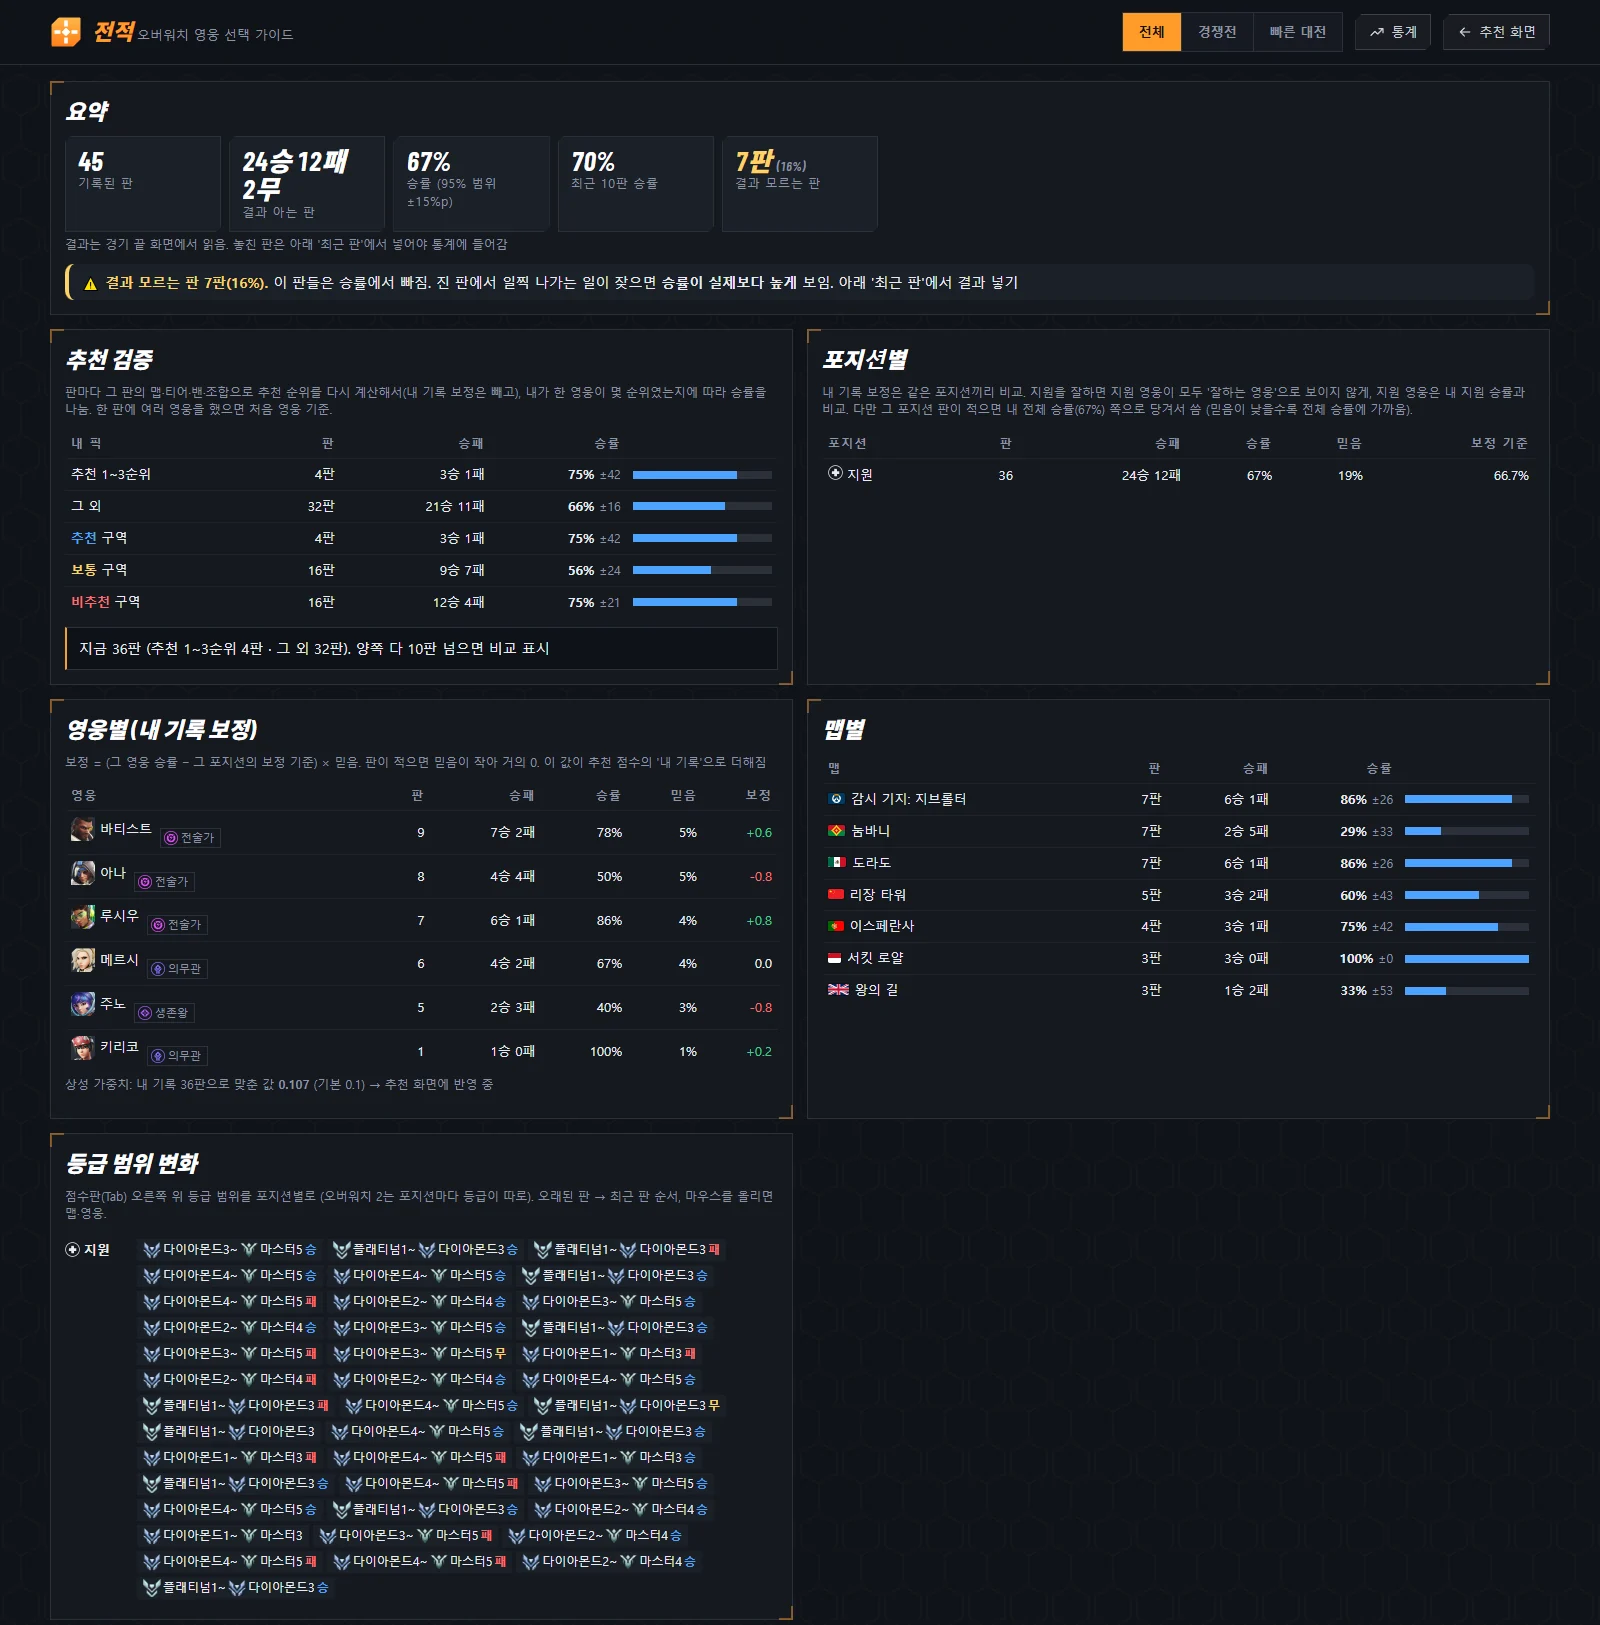
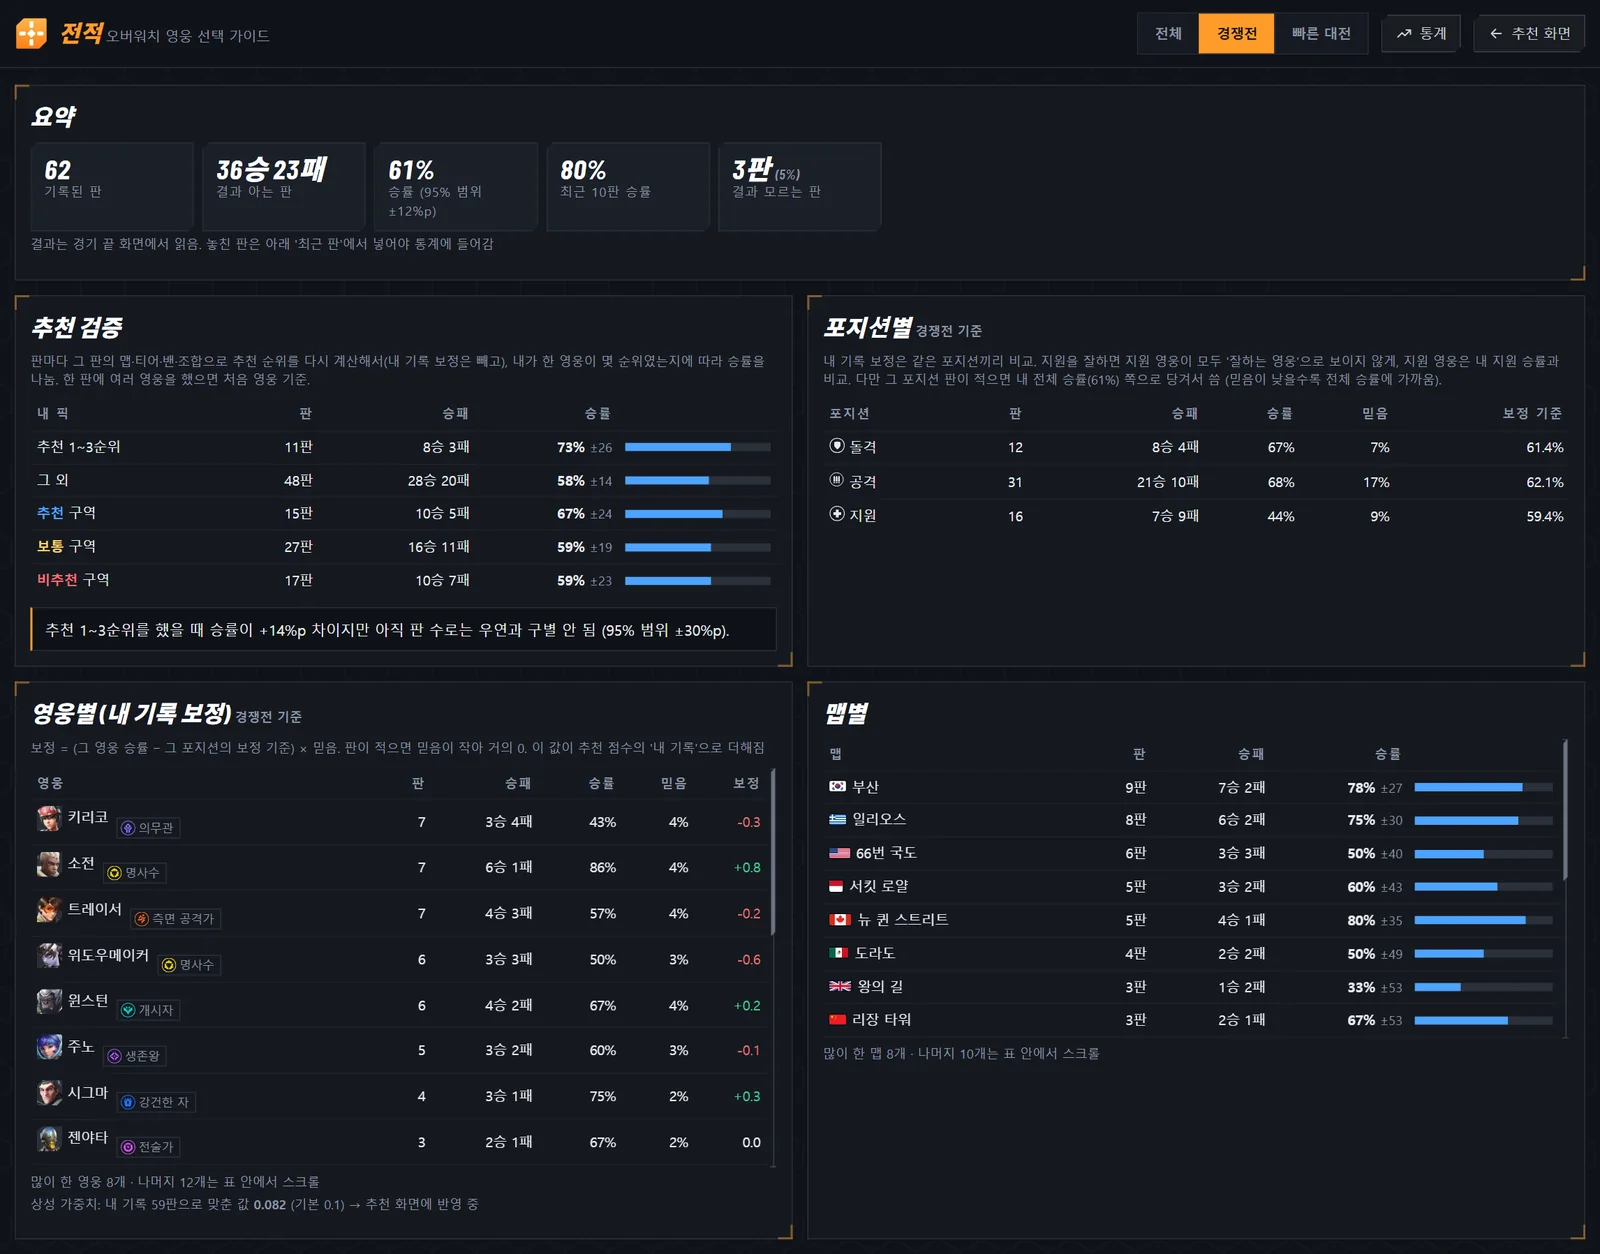
소개 사이트: 상단 GitHub 단추, 전적 사진·글 새로(표 안 스크롤), 등급 범위 변화 섹션, 자주 묻는 질문 '가격' 뺌
- 세 페이지 상단 줄 '무료로 받기' 왼쪽에 GitHub 단추. 좁아지면 마크만, 더 좁으면 메뉴·이름 글자 순으로 줄임 (Firefox 스크롤바 폭 포함)
- 전적 사진은 시험 판 62개로 다시 찍음(실제 기록 아님)
- 제목 글꼴에 새 글자 추가 (예전 글자는 그대로)

diff --git a/docs/index.html b/docs/index.html
@@ -44,7 +44,6 @@
   "@context": "https://schema.org",
   "@type": "FAQPage",
   "mainEntity": [
-    { "@type": "Question", "name": "가격은?", "acceptedAnswer": { "@type": "Answer", "text": "무료. 개인이 만든 비공식 도구, 광고나 결제 없음." } },
     { "@type": "Question", "name": "계정 정지 위험은?", "acceptedAnswer": { "@type": "Answer", "text": "게임 파일을 읽거나 고치지 않고, 게임에 아무것도 주입하지 않음. 화면을 캡처해 글자와 그림만 인식, 오버레이도 게임 위에 떠 있는 일반 창. 다만 블리자드가 공식으로 허용한 도구는 아님." } },
     { "@type": "Question", "name": "추천에 쓰는 통계는?", "acceptedAnswer": { "@type": "Answer", "text": "넥슨 오버워치 공식 영웅 통계(한국 · PC)의 맵·티어별 승률과 픽률, Counterwatch의 영웅 상성과 시너지. 경기가 적은 값은 표본 보정." } },
     { "@type": "Question", "name": "휴대폰으로 보려면?", "acceptedAnswer": { "@type": "Answer", "text": "프로그램 화면 위쪽 설정 → 폰으로 켜고, 표시되는 주소를 같은 Wi-Fi의 휴대폰 브라우저에서 열기." } },
@@ -61,6 +60,7 @@
     <nav class="nav" aria-label="페이지 안 이동">
       <a href="#features">기능</a><a href="guide.html">사용법</a><a href="releases.html">업데이트 내역</a><a href="#faq">자주 묻는 질문</a>
     </nav>
+    <a class="btn ghost gh" href="https://github.com/no2thingmore/ow-map-picker-release" aria-label="GitHub 저장소"><svg viewBox="0 0 16 16" aria-hidden="true"><path d="M8 0C3.58 0 0 3.58 0 8c0 3.54 2.29 6.53 5.47 7.59.4.07.55-.17.55-.38 0-.19-.01-.82-.01-1.49-2.01.37-2.53-.49-2.69-.94-.09-.23-.48-.94-.82-1.13-.28-.15-.68-.52-.01-.53.63-.01 1.08.58 1.23.82.72 1.21 1.87.87 2.33.66.07-.52.28-.87.51-1.07-1.78-.2-3.64-.89-3.64-3.95 0-.87.31-1.59.82-2.15-.08-.2-.36-1.02.08-2.12 0 0 .67-.21 2.2.82.64-.18 1.32-.27 2-.27.68 0 1.36.09 2 .27 1.53-1.04 2.2-.82 2.2-.82.44 1.1.16 1.92.08 2.12.51.56.82 1.27.82 2.15 0 3.07-1.87 3.75-3.65 3.95.29.25.54.73.54 1.48 0 1.07-.01 1.93-.01 2.2 0 .21.15.46.55.38A8.013 8.013 0 0016 8c0-4.42-3.58-8-8-8z"/></svg><span>GitHub</span></a>
     <a class="btn go" href="https://github.com/no2thingmore/ow-map-picker-release/releases/latest/download/OW-MapPicker.bat">무료로 받기</a>
   </div>
 </header>
@@ -119,17 +119,32 @@
         <div class="txt">
           <span class="tag">전적</span>
           <h3 class="disp">전적과 추천 검증</h3>
-          <p>판마다 맵, 결과, 내 픽, 밴, 양 팀을 얼굴 칸으로 저장. 그 판에서 가장 좋았을 영웅과 내 영웅의 순위도 함께 표시.</p>
+          <p>판마다 맵, 결과, 내 픽, 밴, 양 팀을 얼굴 칸으로 저장. 추천대로 골랐을 때 실제로 더 이겼는지 내 기록으로 확인.</p>
           <ul>
             <li>추천 1~3순위로 했을 때와 아닐 때 승률 비교</li>
-            <li>영웅별 · 맵별 승률, 포지션별 등급 범위 변화</li>
+            <li>영웅별 · 맵별 · 포지션별 승률</li>
+            <li>판이 많이 쌓여도 표는 많이 한 순으로 앞쪽만, 나머지는 표 안에서 스크롤</li>
             <li>잘못 나뉜 판 합치기, 결과 직접 고치기</li>
           </ul>
         </div>
-        <div class="pics"><figure class="pic"><img src="site/img/history.webp" width="1600" height="1625" alt="전적 화면: 요약, 추천 검증, 포지션별, 영웅별·맵별 승률, 등급 범위 변화" loading="lazy"></figure></div>
+        <div class="pics"><figure class="pic"><img src="site/img/history.webp" width="1600" height="1254" alt="전적 화면: 요약, 추천 검증, 포지션별 승률, 영웅별·맵별 표(많이 한 8개만 보이고 나머지는 표 안에서 스크롤)" loading="lazy"></figure></div>
       </div>
 
       <div class="feat">
+        <div class="txt">
+          <span class="tag">등급 범위</span>
+          <h3 class="disp">포지션별 등급 범위 변화</h3>
+          <p>점수판(Tab) 오른쪽 위 등급 범위를 판마다 기록해 돌격, 공격, 지원을 따로 그래프로. 막대는 그 판 범위(파랑 승리, 빨강 패배, 회색 결과 모름), 주황 선은 범위 가운데.</p>
+          <ul>
+            <li>지금 범위, 가장 높았던 범위, 승패를 한 줄로</li>
+            <li>처음 5판보다 최근 5판이 몇 단계 올랐는지 표시</li>
+            <li>막대에 마우스를 올리면 그 판 맵과 영웅</li>
+          </ul>
+        </div>
+        <div class="pics"><figure class="pic"><img src="site/img/rank.webp" width="1600" height="1014" alt="등급 범위 변화: 돌격·공격·지원마다 지금 범위, 처음 5판 대비 최근 5판 변화, 가장 높았던 범위, 승패와 판마다 범위 막대 그래프" loading="lazy"></figure></div>
+      </div>
+
+      <div class="feat flip">
         <div class="txt">
           <span class="tag">통계</span>
           <h3 class="disp">메타 · 맵별 통계</h3>
@@ -138,7 +153,7 @@
         <div class="pics"><figure class="pic"><img src="site/img/stats.webp" width="1600" height="1313" alt="통계 화면: 그랜드마스터 경쟁전 역할별 메타 지수 Top 5, 밴률 Top 4, 맵 메타" loading="lazy"></figure></div>
       </div>
 
-      <div class="feat flip">
+      <div class="feat">
         <div class="txt">
           <span class="tag">자동 업데이트</span>
           <h3 class="disp">알아서 최신 버전</h3>
@@ -182,7 +197,6 @@
     <div class="wrap">
       <h2 id="faq-h" class="disp">자주 묻는 질문</h2>
       <div class="faq">
-        <details><summary>가격은?</summary><p>무료. 개인이 만든 비공식 도구, 광고나 결제 없음.</p></details>
         <details><summary>계정 정지 위험은?</summary><p>게임 파일을 읽거나 고치지 않고, 게임에 아무것도 주입하지 않음. 화면을 캡처해 글자와 그림만 인식, 오버레이도 게임 위에 떠 있는 일반 창. 다만 블리자드가 공식으로 허용한 도구는 아님.</p></details>
         <details><summary>추천에 쓰는 통계는?</summary><p>넥슨 오버워치 공식 영웅 통계(한국 · PC)의 맵·티어별 승률과 픽률, Counterwatch의 영웅 상성과 시너지. 경기가 적은 값은 표본 보정. 계산 방법은 프로그램 목록 머리줄 '추천 점수' 옆 '?'에서 확인.</p></details>
         <details><summary>휴대폰으로 보려면?</summary><p>프로그램 화면 위쪽 <b>설정</b> → <b>폰</b>으로 켜고, 표시되는 주소를 같은 Wi-Fi의 휴대폰 브라우저에서 열기.</p></details>

diff --git a/docs/site/site.css b/docs/site/site.css
@@ -35,7 +35,7 @@ a:focus-visible, button:focus-visible, summary:focus-visible { outline: 2px soli
 .skip { position: absolute; left: -9999px; } .skip:focus { left: 16px; top: 8px; z-index: 50; background: var(--accent); color: var(--accent-ink); min-height: 44px; display: inline-flex; align-items: center; padding: 0 14px; }
 
 /* ---- 머리 줄 ---- */
-.top { position: sticky; top: 0; z-index: 20; background: var(--top-bg); backdrop-filter: blur(8px); border-bottom: 1px solid var(--line); }
+.top { position: sticky; top: 0; z-index: 20; background: var(--top-bg); backdrop-filter: blur(8px); border-bottom: 1px solid var(--line); container-type: inline-size; }  /* 아래 @container: 스크롤바 뺀 실제 폭으로 이름 글자 조절 */
 .top .wrap { display: flex; align-items: center; gap: 20px; min-height: 60px; }
 .brand { display: inline-flex; align-items: center; min-height: 44px; gap: 10px; color: var(--white); text-decoration: none; font-size: 19px; white-space: nowrap; }
 .brand img { width: 30px; height: 30px; }
@@ -54,6 +54,10 @@ a:focus-visible, button:focus-visible, summary:focus-visible { outline: 2px soli
 .btn.ghost:hover { box-shadow: inset 0 0 0 1px var(--accent); }
 .btn svg { width: 18px; height: 18px; fill: none; stroke: currentColor; stroke-width: 2.4; stroke-linecap: round; stroke-linejoin: round; }
 .top .btn { min-height: 44px; padding: 0 14px; font-size: 15px; }
+/* GitHub 단추: 상단 줄 '무료로 받기' 왼쪽, 흰 테두리 대신 고양이 마크 + 글자. 좁은 화면은 마크만 */
+.top .gh { margin-right: -8px; gap: 8px; color: var(--text); }
+.top .gh:hover { color: var(--white); }
+.btn.gh svg { width: 20px; height: 20px; fill: currentColor; stroke: none; }
 
 /* ---- 첫 화면 ---- */
 .hero { padding: 64px 0 0; }
@@ -166,10 +170,24 @@ code { font-size: 14px; background: var(--panel-2); padding: 1px 6px; color: var
   .minis { grid-template-columns: minmax(0, 1fr); }
   .split { grid-template-columns: minmax(0, 1fr); }
 }
-@media (max-width: 720px) {
-  .wrap { padding: 0 16px; }
+/* 상단 줄: 글자가 두 줄로 꺾이지 않게. 좁아지면 GitHub는 마크만 → 메뉴 숨김 → (아주 좁으면) 이름 글자 숨김 */
+.top .btn, .nav a { white-space: nowrap; flex-shrink: 0; }
+@media (max-width: 1100px) {
+  .top .gh { width: 44px; padding: 0; margin-right: -8px; justify-content: center; }
+  .top .gh span { position: absolute; width: 1px; height: 1px; overflow: hidden; clip-path: inset(50%); white-space: nowrap; }
+}
+@media (max-width: 900px) {
   .nav { display: none; }
   .top .btn { margin-left: auto; min-height: 44px; }
+  .top .gh + .btn { margin-left: 0; }
+  .top .wrap { gap: 8px; }
+  .top .gh { margin-right: 0; }
+}
+@container (max-width: 349px) { .brand span { position: absolute; width: 1px; height: 1px; overflow: hidden; clip-path: inset(50%); white-space: nowrap; } }
+@media (max-width: 720px) {
+  .wrap { padding: 0 16px; }
+  .top .btn { padding: 0 12px; }
+  .top .gh { padding: 0; }
   .brand { min-height: 44px; }  /* 폰: 누를 곳 44px 안팎 */
   .hero { padding-top: 40px; }
   .shot { padding: 6px; margin-top: 32px; }
@@ -180,7 +198,8 @@ code { font-size: 14px; background: var(--panel-2); padding: 1px 6px; color: var
   th, td { padding: 10px 8px; }
   .btn { min-height: 48px; padding: 0 18px; }
 }
-@media (max-width: 400px) { .brand span { font-size: 16px; } .top .btn { padding: 0 10px; } }
+/* 좁은 폭: 이름 글자를 상단 줄 실제 폭(스크롤바 뺀 폭)에 맞춰 줄임. 이름 글자 폭 ≈ 글자 크기 × 9.4(Firefox 기울임 포함), 나머지(여백·마크·단추) ≈ 250px */
+@media (max-width: 440px) { .brand span { font-size: clamp(12px, calc((100cqw - 250px) / 9.4), 16px); } .top .btn { padding: 0 10px; } .top .gh { padding: 0; } }
 
 /* 사용법: 처음 3단계 (실제 순서라 번호) · 펼쳐 보는 세부 */
 .doc .quick { list-style: none; margin: 28px 0 0; padding: 0; display: grid; grid-template-columns: repeat(3, minmax(0, 1fr)); border: 1px solid var(--line); background: var(--panel); counter-reset: q; }

diff --git a/docs/guide.html b/docs/guide.html
@@ -42,6 +42,7 @@
     <nav class="nav" aria-label="사이트">
       <a href="./#features">기능</a><a href="guide.html" aria-current="page">사용법</a><a href="releases.html">업데이트 내역</a><a href="./#faq">자주 묻는 질문</a>
     </nav>
+    <a class="btn ghost gh" href="https://github.com/no2thingmore/ow-map-picker-release" aria-label="GitHub 저장소"><svg viewBox="0 0 16 16" aria-hidden="true"><path d="M8 0C3.58 0 0 3.58 0 8c0 3.54 2.29 6.53 5.47 7.59.4.07.55-.17.55-.38 0-.19-.01-.82-.01-1.49-2.01.37-2.53-.49-2.69-.94-.09-.23-.48-.94-.82-1.13-.28-.15-.68-.52-.01-.53.63-.01 1.08.58 1.23.82.72 1.21 1.87.87 2.33.66.07-.52.28-.87.51-1.07-1.78-.2-3.64-.89-3.64-3.95 0-.87.31-1.59.82-2.15-.08-.2-.36-1.02.08-2.12 0 0 .67-.21 2.2.82.64-.18 1.32-.27 2-.27.68 0 1.36.09 2 .27 1.53-1.04 2.2-.82 2.2-.82.44 1.1.16 1.92.08 2.12.51.56.82 1.27.82 2.15 0 3.07-1.87 3.75-3.65 3.95.29.25.54.73.54 1.48 0 1.07-.01 1.93-.01 2.2 0 .21.15.46.55.38A8.013 8.013 0 0016 8c0-4.42-3.58-8-8-8z"/></svg><span>GitHub</span></a>
     <a class="btn go" href="https://github.com/no2thingmore/ow-map-picker-release/releases/latest/download/OW-MapPicker.bat">무료로 받기</a>
   </div>
 </header>

diff --git a/docs/releases.html b/docs/releases.html
@@ -29,6 +29,7 @@
     <nav class="nav" aria-label="사이트">
       <a href="./#features">기능</a><a href="guide.html">사용법</a><a href="releases.html" aria-current="page">업데이트 내역</a><a href="./#faq">자주 묻는 질문</a>
     </nav>
+    <a class="btn ghost gh" href="https://github.com/no2thingmore/ow-map-picker-release" aria-label="GitHub 저장소"><svg viewBox="0 0 16 16" aria-hidden="true"><path d="M8 0C3.58 0 0 3.58 0 8c0 3.54 2.29 6.53 5.47 7.59.4.07.55-.17.55-.38 0-.19-.01-.82-.01-1.49-2.01.37-2.53-.49-2.69-.94-.09-.23-.48-.94-.82-1.13-.28-.15-.68-.52-.01-.53.63-.01 1.08.58 1.23.82.72 1.21 1.87.87 2.33.66.07-.52.28-.87.51-1.07-1.78-.2-3.64-.89-3.64-3.95 0-.87.31-1.59.82-2.15-.08-.2-.36-1.02.08-2.12 0 0 .67-.21 2.2.82.64-.18 1.32-.27 2-.27.68 0 1.36.09 2 .27 1.53-1.04 2.2-.82 2.2-.82.44 1.1.16 1.92.08 2.12.51.56.82 1.27.82 2.15 0 3.07-1.87 3.75-3.65 3.95.29.25.54.73.54 1.48 0 1.07-.01 1.93-.01 2.2 0 .21.15.46.55.38A8.013 8.013 0 0016 8c0-4.42-3.58-8-8-8z"/></svg><span>GitHub</span></a>
     <a class="btn go" href="https://github.com/no2thingmore/ow-map-picker-release/releases/latest/download/OW-MapPicker.bat">무료로 받기</a>
   </div>
 </header>

diff --git a/tools/site/build_releases.py b/tools/site/build_releases.py
@@ -218,6 +218,7 @@ TEMPLATE = """<!doctype html>
     <nav class="nav" aria-label="사이트">
       <a href="./#features">기능</a><a href="guide.html">사용법</a><a href="releases.html" aria-current="page">업데이트 내역</a><a href="./#faq">자주 묻는 질문</a>
     </nav>
+    <a class="btn ghost gh" href="https://github.com/no2thingmore/ow-map-picker-release" aria-label="GitHub 저장소"><svg viewBox="0 0 16 16" aria-hidden="true"><path d="M8 0C3.58 0 0 3.58 0 8c0 3.54 2.29 6.53 5.47 7.59.4.07.55-.17.55-.38 0-.19-.01-.82-.01-1.49-2.01.37-2.53-.49-2.69-.94-.09-.23-.48-.94-.82-1.13-.28-.15-.68-.52-.01-.53.63-.01 1.08.58 1.23.82.72 1.21 1.87.87 2.33.66.07-.52.28-.87.51-1.07-1.78-.2-3.64-.89-3.64-3.95 0-.87.31-1.59.82-2.15-.08-.2-.36-1.02.08-2.12 0 0 .67-.21 2.2.82.64-.18 1.32-.27 2-.27.68 0 1.36.09 2 .27 1.53-1.04 2.2-.82 2.2-.82.44 1.1.16 1.92.08 2.12.51.56.82 1.27.82 2.15 0 3.07-1.87 3.75-3.65 3.95.29.25.54.73.54 1.48 0 1.07-.01 1.93-.01 2.2 0 .21.15.46.55.38A8.013 8.013 0 0016 8c0-4.42-3.58-8-8-8z"/></svg><span>GitHub</span></a>
     <a class="btn go" href="{repo}/releases/latest/download/OW-MapPicker.bat">무료로 받기</a>
   </div>
 </header>
